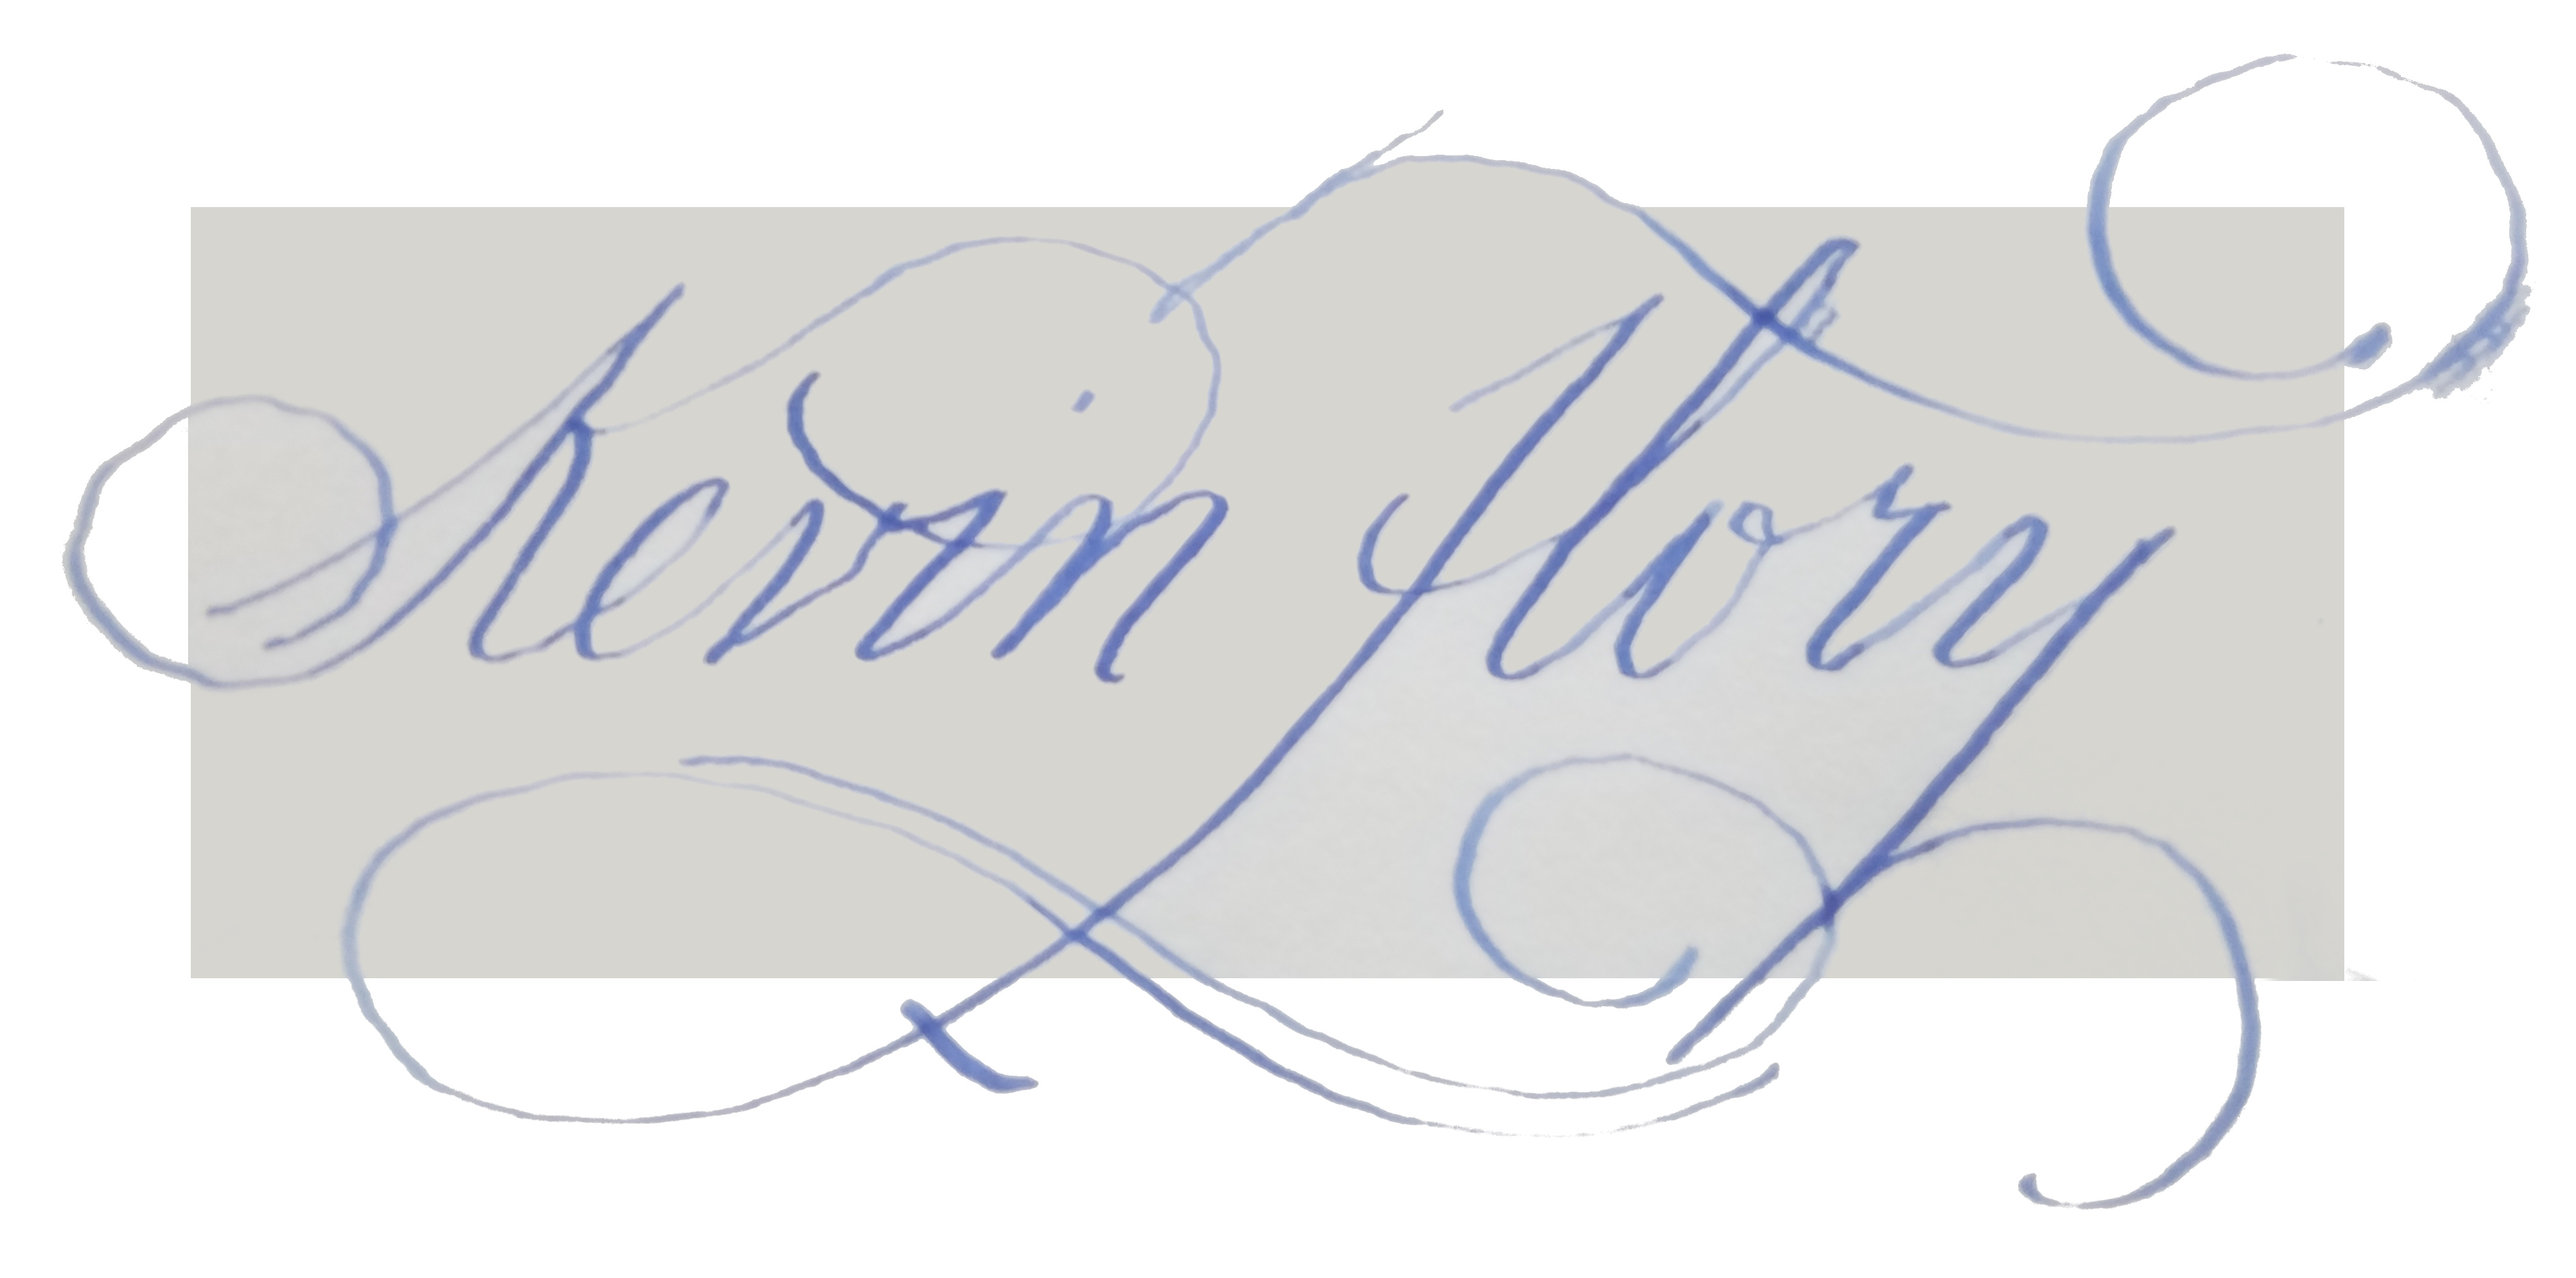
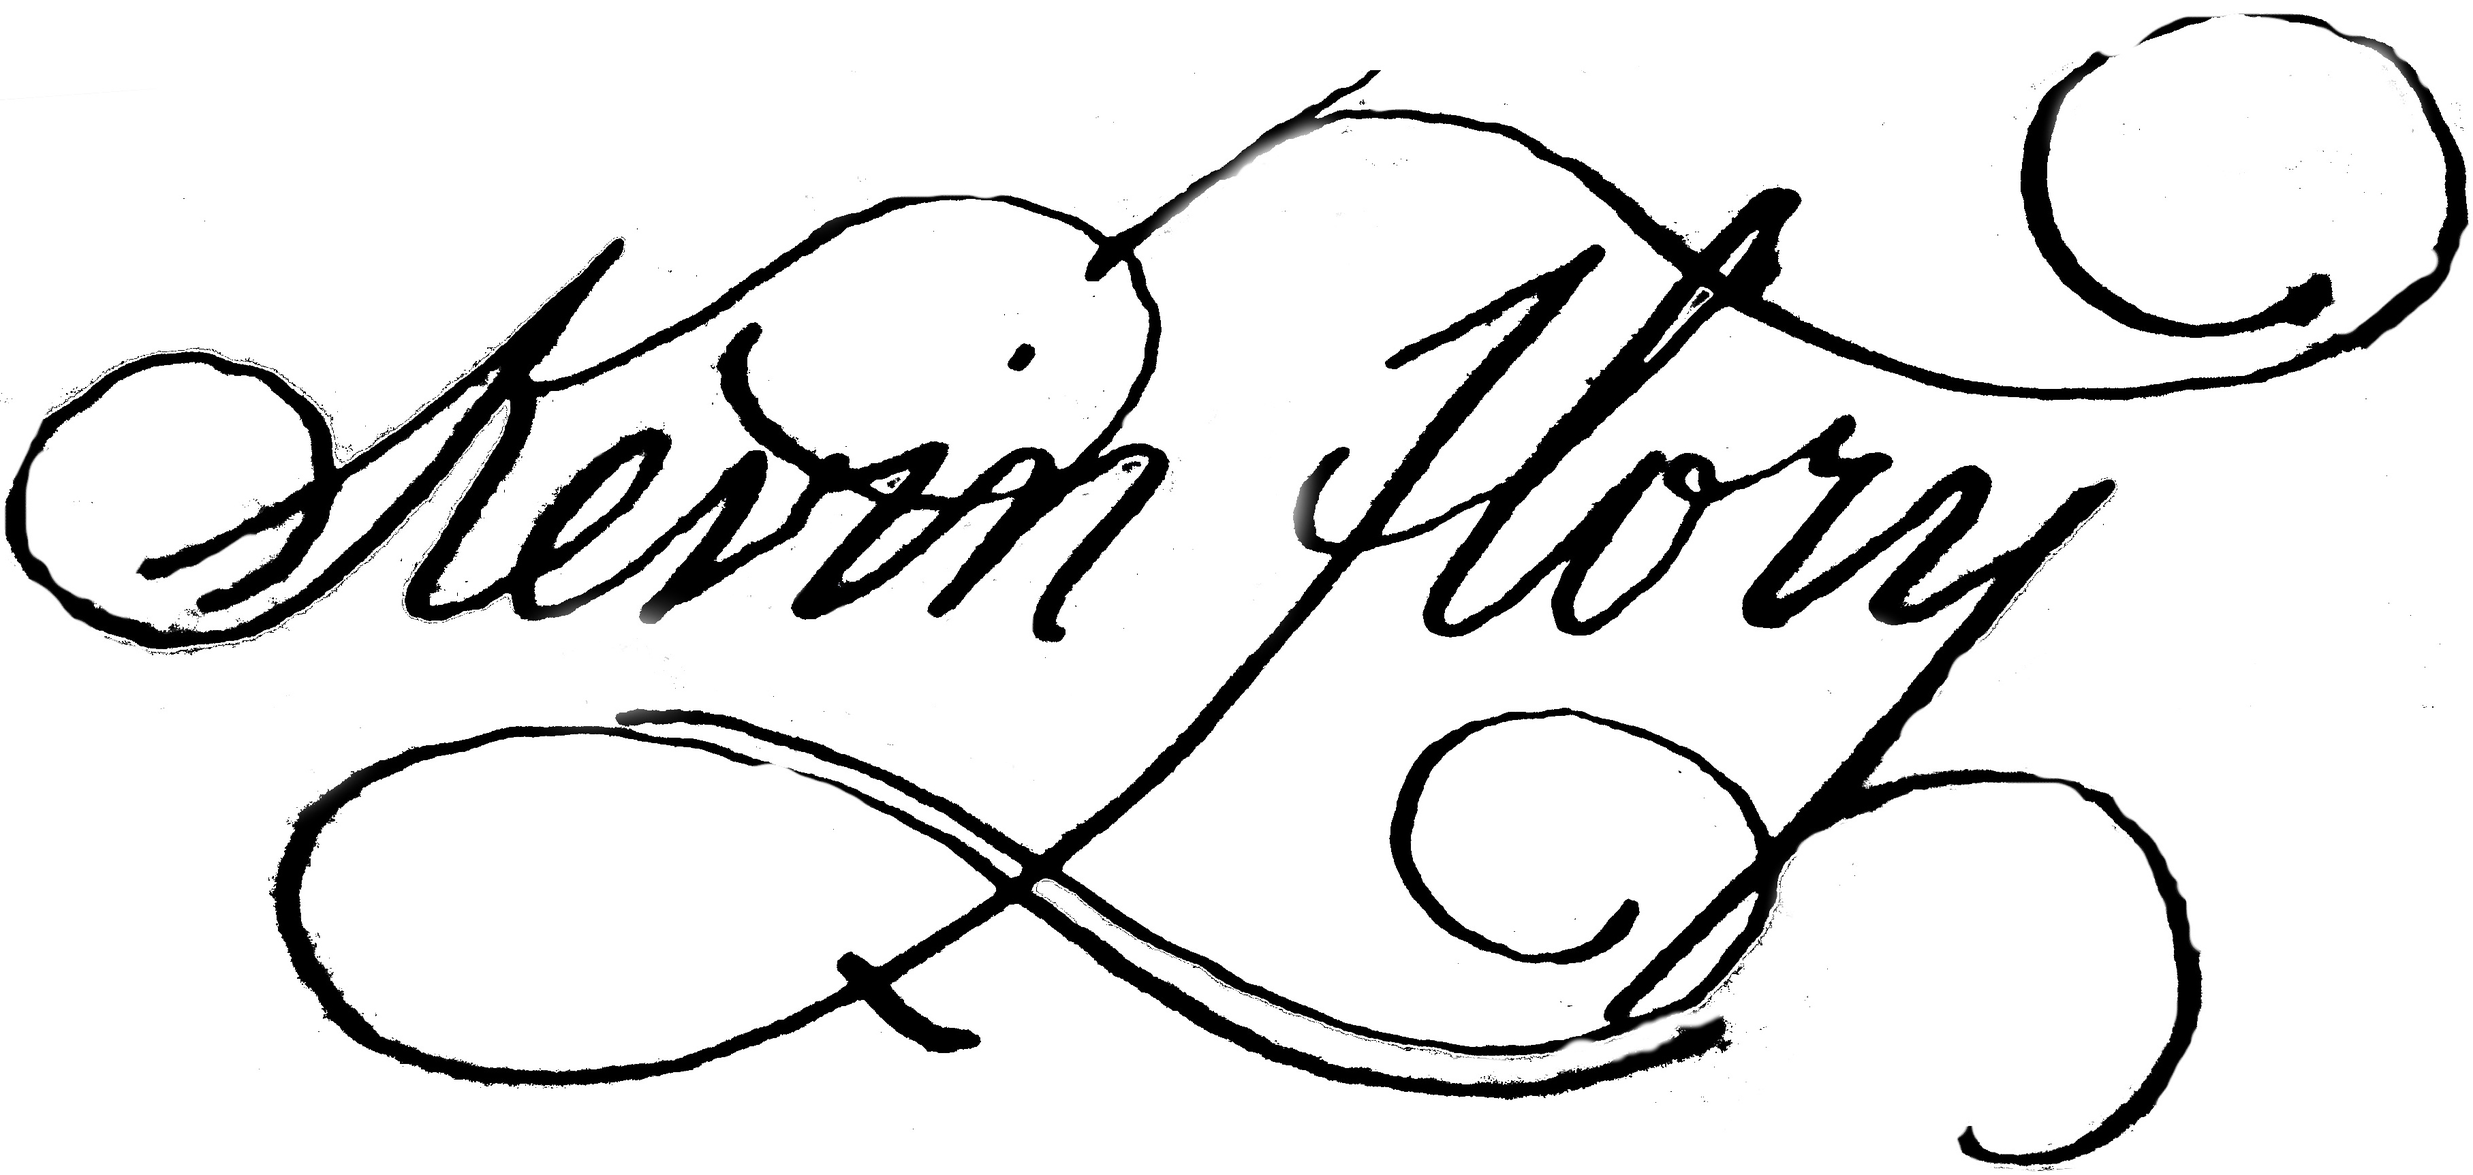
Adds background image utilities for display of image of my signature.
Note: THIS IS NOT A RELEASE VERSION. Added during experimentation phase so I can easily version-switch.

diff --git a/src/main/resources/static/css/background-image.css b/src/main/resources/static/css/background-image.css
@@ -1,0 +1,21 @@
+/* This CSS copied from https://startbootstrap.com/snippets/full-image-background/, 2020-01-27.
+   Some modifications made per https://mdbootstrap.com/docs/jquery/css/background-image/ for code clarity. */
+.background-img-signature-fill {
+  background-image: url("../Signature-AsBackground-WithVerticalOffset.jpg");
+  
+  /*width: 100%;*/
+  
+  /* I know scroll is the default; adding it for my own understanding. */
+  background-attachment: scroll;
+  background-repeat: no-repeat;
+  background-position: center; 
+  -webkit-background-size: cover;
+  -moz-background-size: cover;
+  background-size: cover;
+  -o-background-size: cover;
+}
+
+.background-color-signature-underlay {
+	background-color: rgb(218, 217, 212);
+	background-repeat: repeat-xy;
+}
